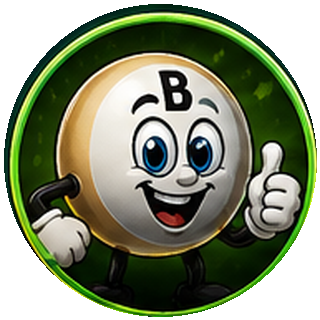
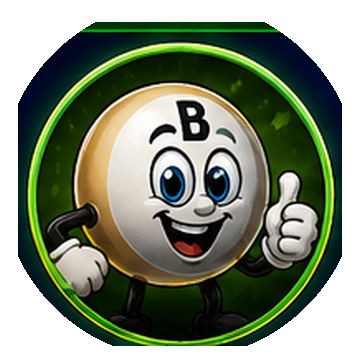
Add files via upload

diff --git a/catalog.js b/catalog.js
@@ -1,17 +1,17 @@
 export const SHOP_ITEMS = [
-  { id:"avatar-ball", name:"Classic Bingo Ball", price:0, icon:"🎱", image:"assets/avatars/avatar-ball.png", type:"avatar", tier:"free" },
-  { id:"avatar-smile", name:"Happy Dobber", price:0, icon:"😄", image:"assets/avatars/avatar-smile.png", type:"avatar", tier:"free" },
-  { id:"avatar-star", name:"Lucky Star", price:0, icon:"⭐", image:"assets/avatars/avatar-star.png", type:"avatar", tier:"free" },
-  { id:"avatar-clover", name:"Lucky Clover", price:0, icon:"🍀", image:"assets/avatars/avatar-clover.png", type:"avatar", tier:"free" },
-  { id:"avatar-crown", name:"Little Crown", price:0, icon:"👑", image:"assets/avatars/avatar-crown.png", type:"avatar", tier:"free" },
+  { id:"avatar-ball", name:"Classic Bingo Ball", price:0, icon:"🎱", image:"assets/avatars/avatar-ball.png?v=2.1.4", type:"avatar", tier:"free" },
+  { id:"avatar-smile", name:"Happy Dobber", price:0, icon:"😄", image:"assets/avatars/avatar-smile.png?v=2.1.4", type:"avatar", tier:"free" },
+  { id:"avatar-star", name:"Lucky Star", price:0, icon:"⭐", image:"assets/avatars/avatar-star.png?v=2.1.4", type:"avatar", tier:"free" },
+  { id:"avatar-clover", name:"Lucky Clover", price:0, icon:"🍀", image:"assets/avatars/avatar-clover.png?v=2.1.4", type:"avatar", tier:"free" },
+  { id:"avatar-crown", name:"Little Crown", price:0, icon:"👑", image:"assets/avatars/avatar-crown.png?v=2.1.4", type:"avatar", tier:"free" },
 
-  { id:"avatar-gold-crown", name:"Golden Crown", price:300, icon:"👑", image:"assets/avatars/avatar-gold-crown.png", type:"avatar", tier:"premium" },
-  { id:"avatar-disco", name:"Disco Ball", price:450, icon:"🪩", image:"assets/avatars/avatar-disco.png", type:"avatar", tier:"premium" },
-  { id:"avatar-fire", name:"Flaming Bingo", price:600, icon:"🔥", image:"assets/avatars/avatar-fire.png", type:"avatar", tier:"premium" },
-  { id:"avatar-diamond", name:"Diamond", price:900, icon:"💎", image:"assets/avatars/avatar-diamond.png", type:"avatar", tier:"premium" },
-  { id:"avatar-skull", name:"Neon Skull", price:1250, icon:"💀", image:"assets/avatars/avatar-skull.png", type:"avatar", tier:"premium" },
-  { id:"avatar-jackpot", name:"Jackpot", price:1750, icon:"🎰", image:"assets/avatars/avatar-jackpot.png", type:"avatar", tier:"premium" },
-  { id:"avatar-sassy", name:"General Sassy Approved", price:3000, icon:"🫡", image:"assets/avatars/avatar-sassy.png", type:"avatar", tier:"legendary" },
+  { id:"avatar-gold-crown", name:"Golden Crown", price:300, icon:"👑", image:"assets/avatars/avatar-gold-crown.png?v=2.1.4", type:"avatar", tier:"premium" },
+  { id:"avatar-disco", name:"Disco Ball", price:450, icon:"🪩", image:"assets/avatars/avatar-disco.png?v=2.1.4", type:"avatar", tier:"premium" },
+  { id:"avatar-fire", name:"Flaming Bingo", price:600, icon:"🔥", image:"assets/avatars/avatar-fire.png?v=2.1.4", type:"avatar", tier:"premium" },
+  { id:"avatar-diamond", name:"Diamond", price:900, icon:"💎", image:"assets/avatars/avatar-diamond.png?v=2.1.4", type:"avatar", tier:"premium" },
+  { id:"avatar-skull", name:"Neon Skull", price:1250, icon:"💀", image:"assets/avatars/avatar-skull.png?v=2.1.4", type:"avatar", tier:"premium" },
+  { id:"avatar-jackpot", name:"Jackpot", price:1750, icon:"🎰", image:"assets/avatars/avatar-jackpot.png?v=2.1.4", type:"avatar", tier:"premium" },
+  { id:"avatar-sassy", name:"General Sassy Approved", price:3000, icon:"🫡", image:"assets/avatars/avatar-sassy.png?v=2.1.4", type:"avatar", tier:"legendary" },
 
   { id:"dabber-blue", name:"Blue Dabber", price:100, icon:"💙", type:"dabber" },
   { id:"dabber-pink", name:"Pink Dabber", price:175, icon:"🩷", type:"dabber" },

diff --git a/style.css b/style.css
@@ -1819,3 +1819,26 @@ body[data-name-effect="name-royal"] #profileName{color:#fde68a!important;text-sh
 .winner-name-row{display:flex;align-items:center;justify-content:center;gap:9px}
 .winner-avatar-img{width:42px;height:42px;border-radius:50%;object-fit:cover;box-shadow:0 0 12px rgba(250,204,21,.35)}
 .avatar-store-item .shop-icon{padding:0!important;overflow:hidden}
+
+
+/* ===== V2.1.4 AVATAR ALIGNMENT / FRAMING ===== */
+.profile-avatar{
+  width:88px!important;
+  height:88px!important;
+  padding:5px!important;
+  border:2px solid rgba(125,211,252,.28)!important;
+  background:linear-gradient(145deg,rgba(12,31,70,.96),rgba(5,14,34,.96))!important;
+  box-shadow:0 0 18px rgba(56,189,248,.18);
+}
+.profile-avatar-img{
+  width:100%;
+  height:100%;
+  object-fit:contain!important;
+  border-radius:50%;
+}
+.shop-avatar-img,
+.mini-avatar-img,
+.winner-avatar-img{
+  object-fit:contain!important;
+  background:rgba(3,12,28,.65);
+}

diff --git a/host.js b/host.js
@@ -2,7 +2,7 @@ import { auth,database } from "./firebase.js";
 import { onAuthStateChanged,signOut } from "https://www.gstatic.com/firebasejs/10.12.2/firebase-auth.js";
 import { ref,get,set,update,onValue,push,runTransaction,remove } from "https://www.gstatic.com/firebasejs/10.12.2/firebase-database.js";
 import { create75Card,create90Card,shuffle,missingCount,validWin,createBalanced90Draw } from "./game-engine.js";
-import { SHOP_ITEMS,AVATARS } from "./catalog.js?v=2.1.3";
+import { SHOP_ITEMS,AVATARS } from "./catalog.js?v=2.1.4";
 
 const $=id=>document.getElementById(id);
 let host=null,profiles={},lobby={},selectedUid=null,game={},called=[],hostDrawOrder=[];

diff --git a/player.js b/player.js
@@ -1,7 +1,7 @@
 import { auth,database } from "./firebase.js";
 import { onAuthStateChanged,signOut } from "https://www.gstatic.com/firebasejs/10.12.2/firebase-auth.js";
 import { ref,get,set,update,onValue,runTransaction,push,remove,onDisconnect } from "https://www.gstatic.com/firebasejs/10.12.2/firebase-database.js";
-import { SHOP_ITEMS,ACHIEVEMENTS,AVATARS } from "./catalog.js?v=2.1.3";
+import { SHOP_ITEMS,ACHIEVEMENTS,AVATARS } from "./catalog.js?v=2.1.4";
 import { BLANK,validWin } from "./game-engine.js";
 
 const $=id=>document.getElementById(id);

diff --git a/index.html b/index.html
@@ -49,6 +49,6 @@
       <div id="authMessage" class="message-box" aria-live="polite"></div>
     </section>
   </main>
-  <script type="module" src="./auth.js?v=2.1.3"></script>
+  <script type="module" src="./auth.js?v=2.1.4"></script>
 </body>
 </html>

diff --git a/player.html b/player.html
@@ -169,6 +169,6 @@
 
   <div id="confettiLayer" class="confetti-layer" aria-hidden="true"></div>
 
-  <script type="module" src="./player.js?v=2.1.3"></script>
+  <script type="module" src="./player.js?v=2.1.4"></script>
 </body>
 </html>

diff --git a/host.html b/host.html
@@ -118,6 +118,6 @@
       </article>
     </section>
   </main>
-  <script type="module" src="./host.js?v=2.1.3"></script>
+  <script type="module" src="./host.js?v=2.1.4"></script>
 </body>
 </html>

diff --git a/host-setup.html b/host-setup.html
@@ -79,6 +79,6 @@
     </section>
   </main>
 
-  <script type="module" src="./host-setup.js?v=2.1.3"></script>
+  <script type="module" src="./host-setup.js?v=2.1.4"></script>
 </body>
 </html>
